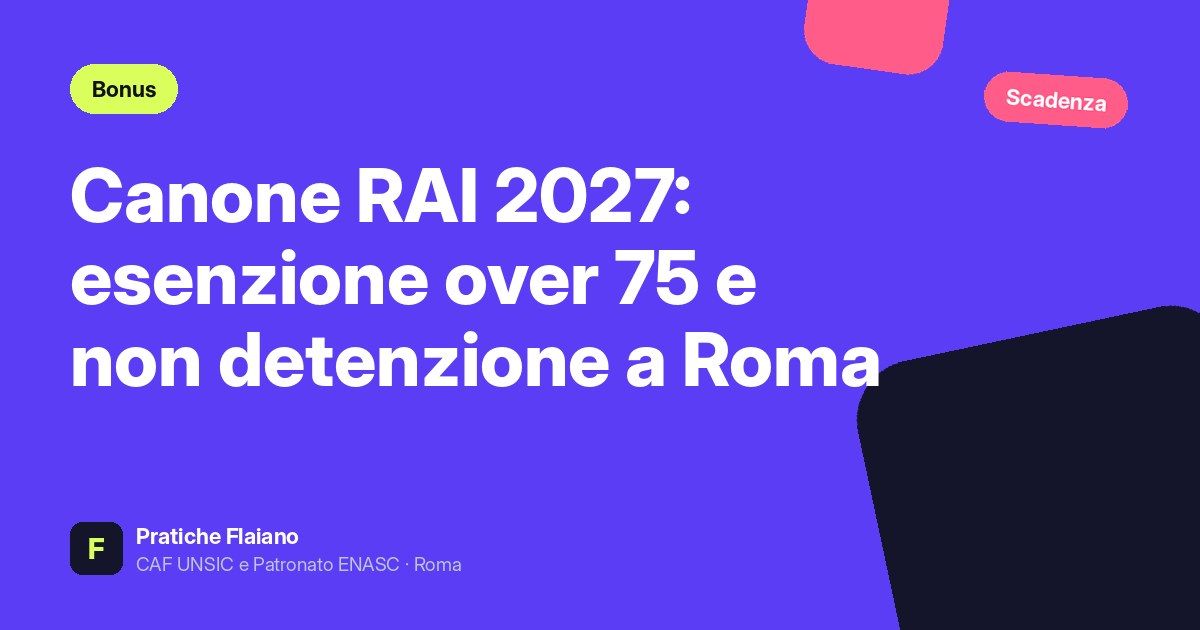
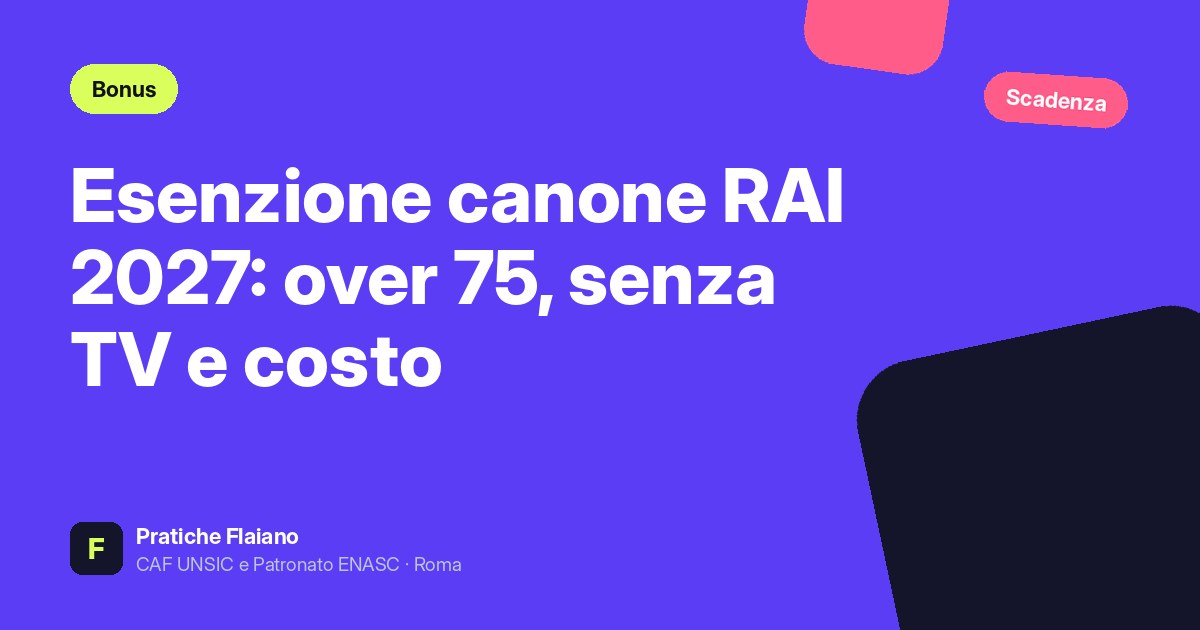
Prezzi coerenti (Assegno Unico 15/10 €, niente 'gratis' non confermati), meta e copertine aggiornate
Claude-Session: https://claude.ai/code/session_0196GTvN5mPCjeJurPh7tVQp

Changed region(s): [[0.0617, 0.5127, 0.74, 0.6333], [0.0617, 0.2413, 0.7092, 0.3619], [0.0617, 0.3921, 0.6475, 0.5127]]

diff --git a/content/invalidita-civile/2026-11-24-bando-inps-assegni-frequenza-contributi-formativi-2026-scuola.md b/content/invalidita-civile/2026-11-24-bando-inps-assegni-frequenza-contributi-formativi-2026-scuola.md
@@ -6,7 +6,7 @@ date: 2026-11-24
 last_updated: 2026-11-24
 category: "invalidita-civile"
 tags: ["inps", "bandi-inps", "disabilita", "legge-104", "scuola", "docenti", "ata", "orfani"]
-meta_description: "Bando INPS 2026 per figli di insegnanti e personale ATA: fino a 1.000 euro per orfani e figli con disabilità. Domande dal 30 novembre al 30 dicembre 2026."
+meta_description: "Bando INPS 2026 per figli di insegnanti e personale ATA: fino a 1.000 euro per orfani e figli con disabilità. Domande dal 30/11 al 30/12/2026. Aiuto a Roma."
 author: "Redazione Centro Pratiche Flaiano"
 sources:
   - "INPS, Bando di concorso Assegni di frequenza e contributi formativi 2026, pubblicato il 24 novembre 2026 - https://www.inps.it/it/it/avvisi-bandi-e-fatturazione/welfare-assistenza-e-mutualita/welfare-bandi/cerca-bandi/dettaglio.welfare-bandi.2026.11.bando-di-concorso-assegni-di-frequenza-e-contribut_176.html"

diff --git a/content/assegno-unico/2026-04-29-assegno-unico-2026-importi-tabella-isee.md b/content/assegno-unico/2026-04-29-assegno-unico-2026-importi-tabella-isee.md
@@ -170,7 +170,7 @@ L'ISEE corrente vale **6 mesi** (o fino a fine anno se richiesto dopo il 1° gen
 
 Operiamo a **Roma**, zona **Vigne Nuove** (Municipio III Montesacro), come **CAF UNSIC** e **Patronato ENASC** autorizzato. Serviamo famiglie da **Tufello, Conca d'Oro, Bufalotta, Porta di Roma** e tutto il **Municipio III**.
 
-Il Patronato presta **assistenza gratuita** per tutte le pratiche INPS (Legge 152/2001), incluso l'Assegno Unico. I nostri operatori si occupano di:
+La domanda di Assegno Unico con noi costa **15 € in ufficio** (**10 €** con la tessera); l'**ISEE** che serve per l'assegno è **gratuito**. I nostri operatori si occupano di:
 
 - Calcolare correttamente l'**ISEE 2026** prima della domanda AUU
 - Verificare le **maggiorazioni applicabili** (entrambi genitori lavoratori, madre under 21, disabilita)

diff --git a/content/detrazioni-deduzioni/2026-04-30-detrazioni-spese-mediche-730-2026-guida-completa.md b/content/detrazioni-deduzioni/2026-04-30-detrazioni-spese-mediche-730-2026-guida-completa.md
@@ -6,7 +6,7 @@ date: 2026-04-30
 last_updated: 2026-11-26
 category: "detrazioni-deduzioni"
 tags: ["guida", "730", "spese mediche", "detrazioni", "IRPEF", "tessera sanitaria"]
-meta_description: "Spese mediche nel 730/2026: detrazione del 19% sopra la franchigia di 129,11 €, scontrino parlante e pagamento tracciabile. Ti aiutiamo a Vigne Nuove."
+meta_description: "Spese mediche nel 730/2026: detrazione del 19% sopra la franchigia di 129,11 €, scontrino parlante e pagamento tracciabile. Ti aiutiamo a Roma."
 author: "Redazione Centro Pratiche Flaiano"
 sources:
   - "Agenzia delle Entrate - Istruzioni 730/2026, Quadro E righi E1-E3, E6"

diff --git a/content/naspi-disoccupazione/2026-04-29-checklist-primi-7-giorni-perdita-lavoro-roma.md b/content/naspi-disoccupazione/2026-04-29-checklist-primi-7-giorni-perdita-lavoro-roma.md
@@ -6,7 +6,7 @@ date: 2026-04-29
 last_updated: 2026-11-26
 category: "naspi-disoccupazione"
 tags: ["naspi", "guida", "patronato", "lavoro", "isee", "famiglie"]
-meta_description: "Hai perso il lavoro a Roma? Cosa fare nei primi 7 giorni: NASpI, ISEE corrente, AUU, SIISL. Checklist Patronato + CAF UNSIC del Centro Pratiche Flaiano Vigne Nuove."
+meta_description: "Hai perso il lavoro a Roma? Cosa fare nei primi 7 giorni: NASpI, ISEE corrente, AUU, SIISL. La checklist del Patronato ENASC a Vigne Nuove."
 author: "Redazione Centro Pratiche Flaiano"
 sources:
   - "Decreto Legislativo 4 marzo 2015, n. 22 (NASpI)"

diff --git a/content/bonus-fiscali/2026-04-29-bonus-asilo-nido-2026-3600-euro.md b/content/bonus-fiscali/2026-04-29-bonus-asilo-nido-2026-3600-euro.md
@@ -195,7 +195,7 @@ No, il bonus nido non si cumula con la detrazione del 19% per le rette del nido.
 
 ### Quanto costa la domanda del bonus nido al patronato?
 
-Niente: come indicato nella pagina [bonus famiglia](/bonus-famiglia), le domande all'INPS presentate dal nostro patronato sono gratuite, e anche l'ISEE è gratis.
+L'ISEE da noi è gratuito. Per la domanda del bonus nido ti diciamo il costo prima di iniziare: chiedi su WhatsApp al **371 623 0690** o [prenota un appuntamento](/prenota).
 
 ---
 
